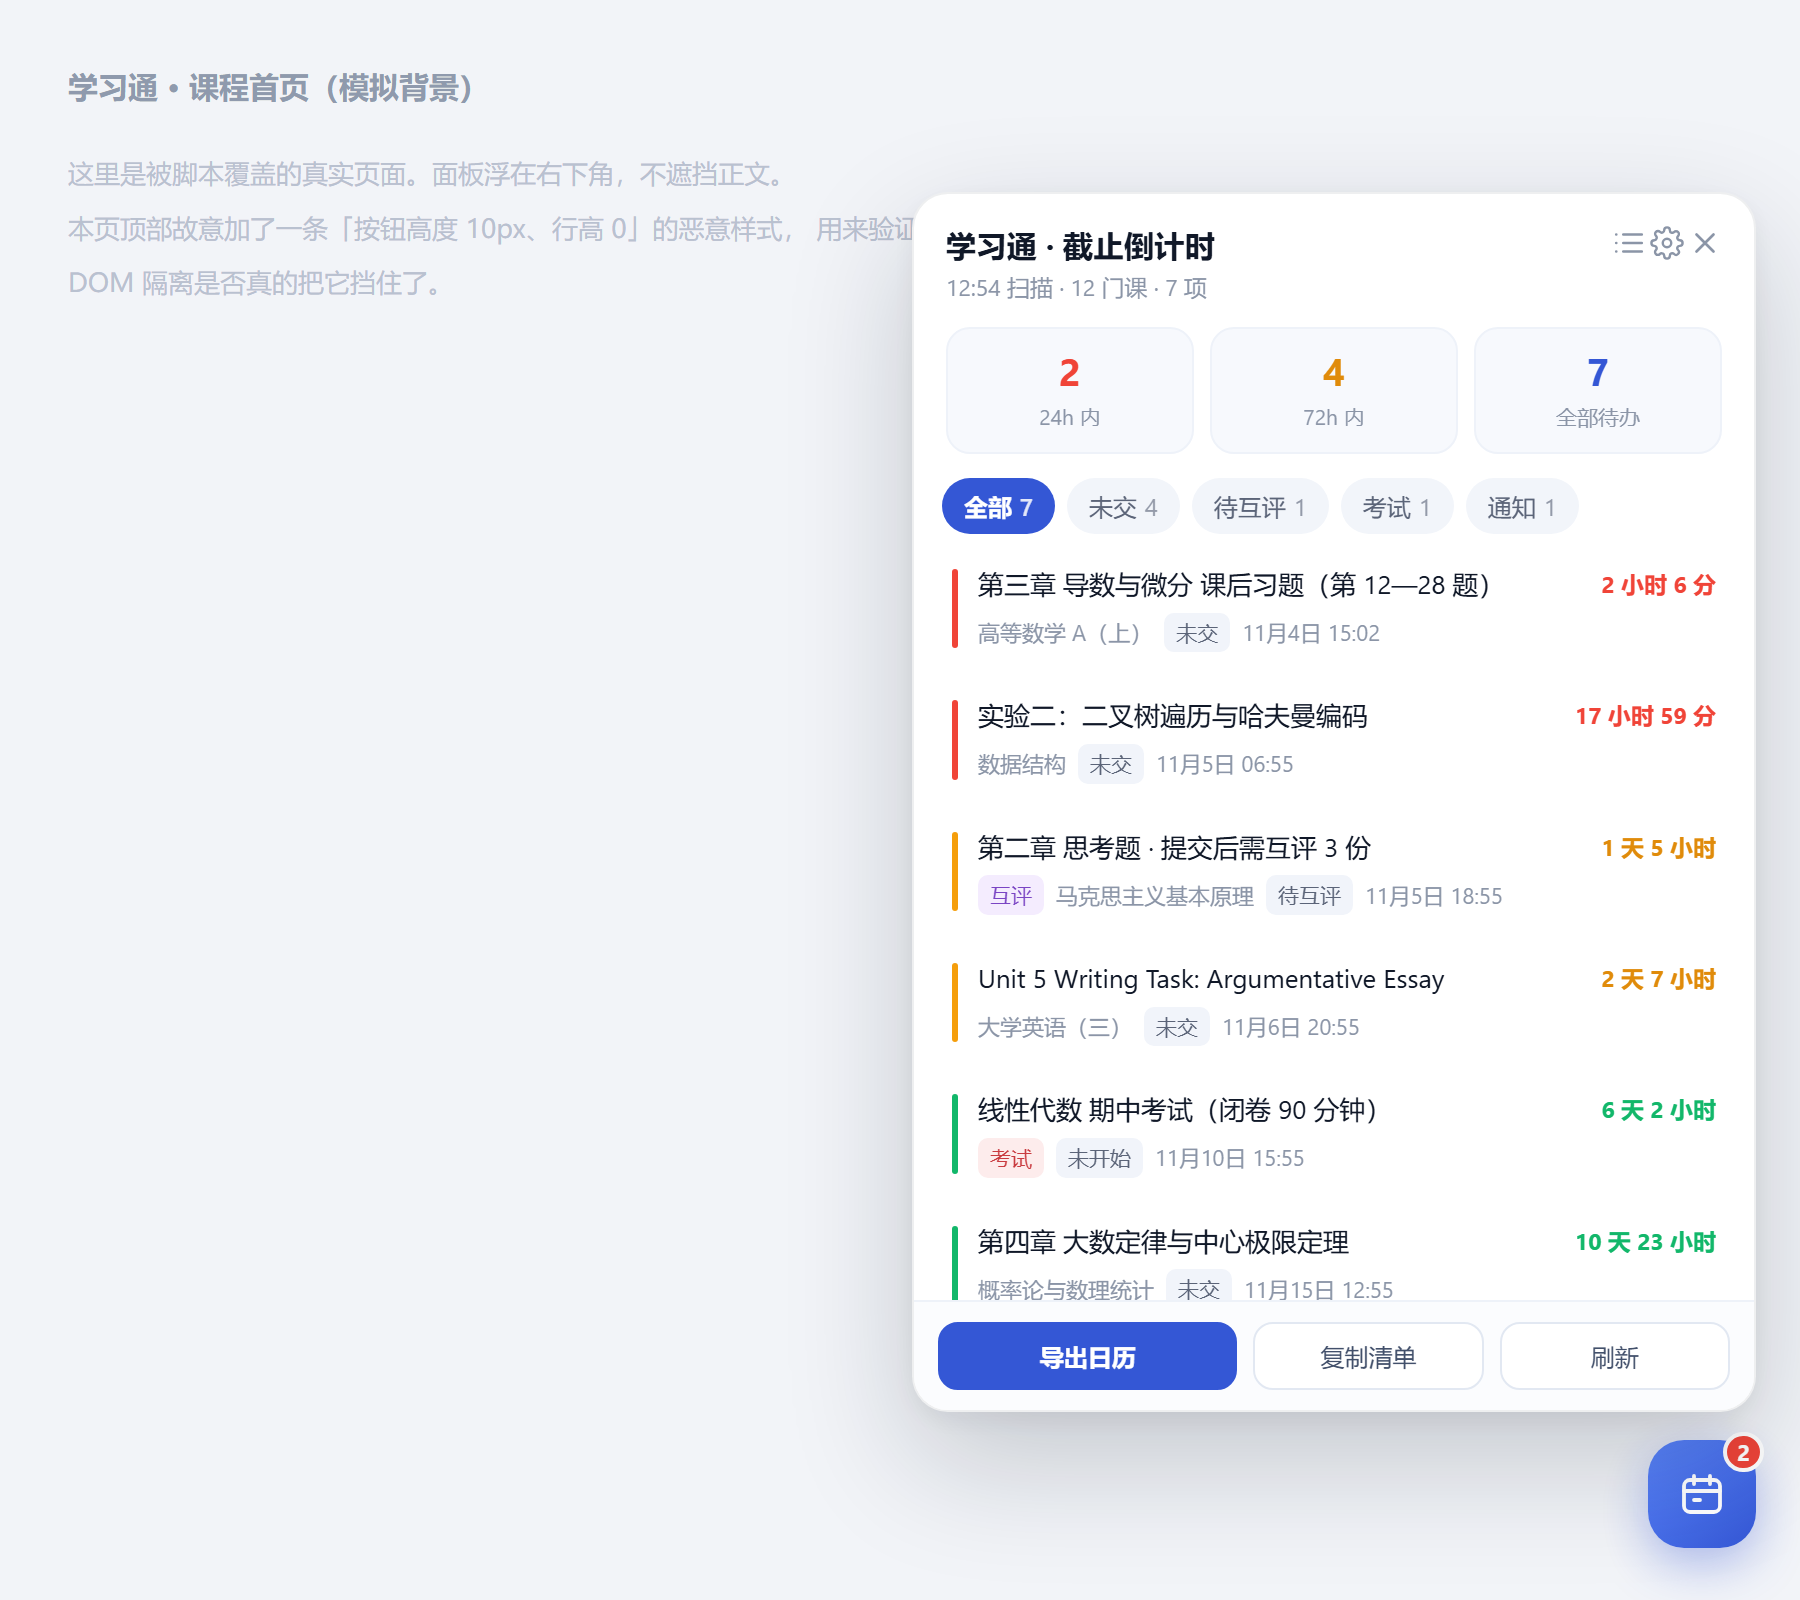
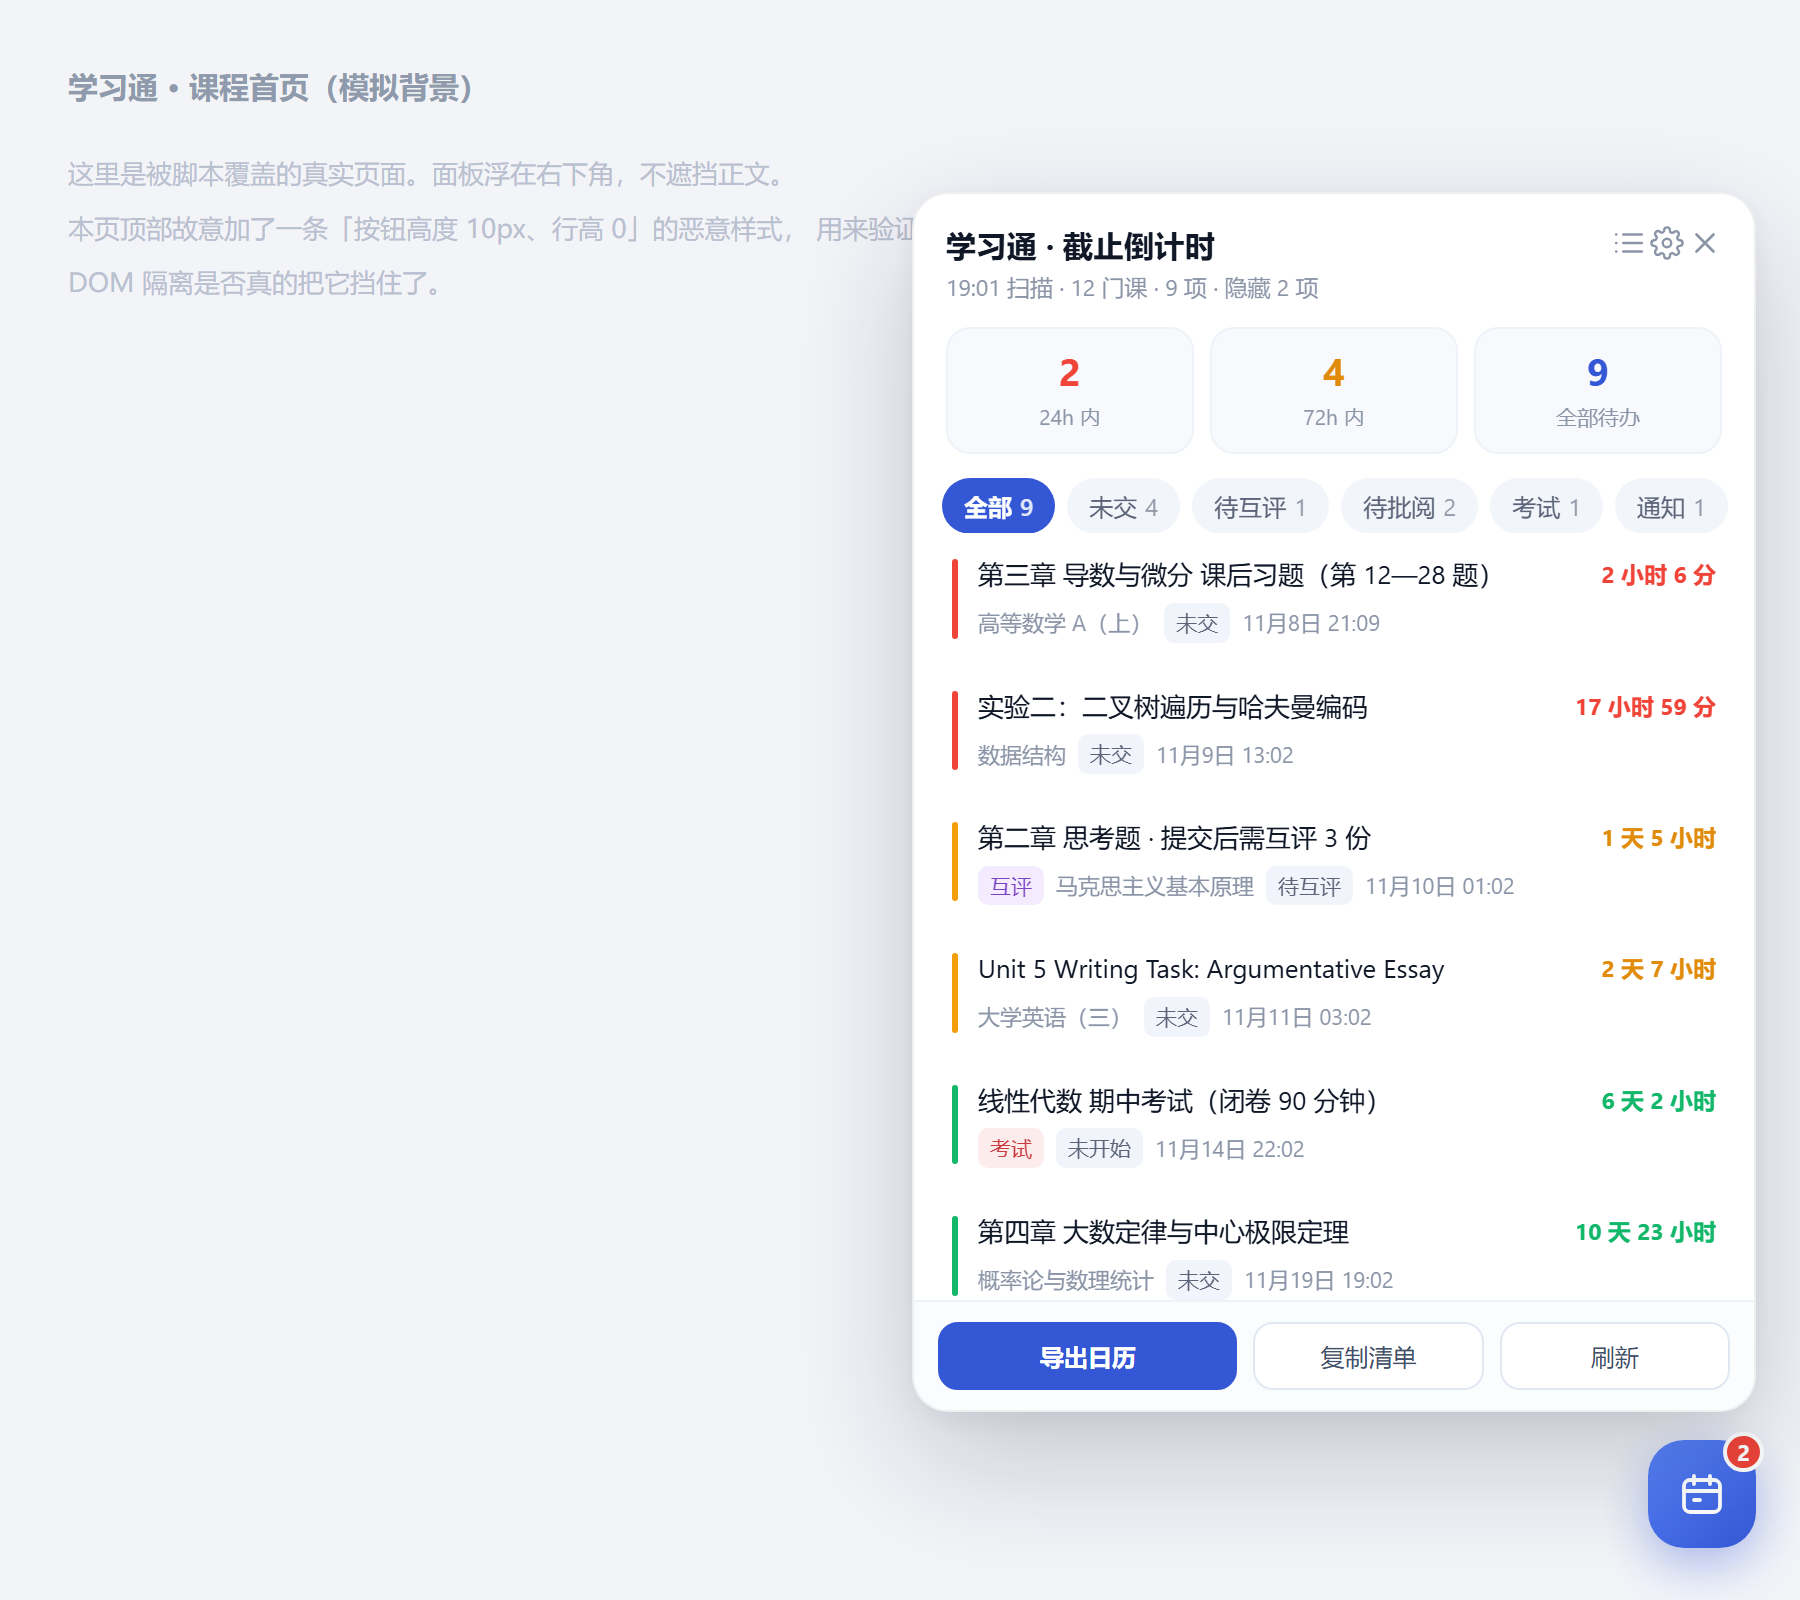
feat: 超过 30 天仍在待批阅的作业自动隐藏 (v1.2.0)
一屏十几条待批阅，大多老师根本不会再批，看着很烦。

- 新增设置「待批阅保留时长」，默认 30 天，可选 不限制 / 14 / 30 / 60 天
- 年龄判据分两种：有截止时间的按截止时间算；没有的按脚本第一次
  扫到它的时间算，所以新交的作业不会误伤，躺满 30 天后自动消失
- 升级后第一次扫描没有历史可查，这些作业按已过期 31 天起算，
  装完立即可见效果
- 顶部副标题显示「隐藏 N 项」，悬停可看具体天数

顺带修正排序：还没截止的排前面，已截止的沉底。待批阅和已过期
作业不该压在真正要交的作业上面。

测试：新增 test/grading.test.mjs，15 项断言覆盖两种时间来源与各档
阈值边界；CI 加入这一步。

diff --git a/chaoxing-deadline.user.js b/chaoxing-deadline.user.js
@@ -2,7 +2,7 @@
 // @name         学习通作业倒计时 · 日历订阅
 // @name:en      Chaoxing Deadline → Calendar
 // @namespace    https://github.com/hjlhjl6667/chaoxing-deadline
-// @version      1.1.0
+// @version      1.2.0
 // @description  一键扫描学习通全部课程的未交作业、待互评、待批阅、考试与未读通知，按剩余时间排序，并可导出 .ics 导入手机系统日历，到期自动提醒。不是又一个网页面板 —— 是让截止时间真正进入你的日程。
 // @description:en Scan all Chaoxing assignments/exams/notices in one click, sort by time left, and export to .ics so deadlines live in your phone's calendar with real alarms.
 // @author       hjlhjl6667
@@ -54,7 +54,11 @@
     scan: 'cxd_scan_v1',
     courses: 'cxd_courses_v1',
     settings: 'cxd_settings_v1',
+    seen: 'cxd_seen_v1',
+    boot: 'cxd_boot_v1',      // 是否已经记录过一轮「首次见到」时间
   };
+
+  const DAY_MS = 864e5;
 
   const DEFAULTS = {
     reminders: [-3 * 24 * 60, -24 * 60, -120],
@@ -65,6 +69,7 @@
     includeExpired: false,
     hideRetired: false,     // 默认扫描全部课程（含已结课），不漏课
     preciseMode: false,      // 走作业详情页取绝对时间（请求量大）
+    gradingMaxAgeDays: 30,   // 待批阅超过这么多天就隐藏，0 = 不限制
   };
 
   /* ==========================================================================
@@ -894,11 +899,33 @@
       }
     }
 
+    // 待批阅作业多半没有截止时间可用，只能靠「第一次扫到它的时间」推算它躺了多久。
+    // 每次扫描都用当前结果重建这张表，旧条目自然被淘汰，不会无限增长。
+    const seenOld = loadSeen();
+    const seenNow = Date.now();
+    const booted = !!GM_getValue(STORE.boot, 0);
+    const seen = {};
+    items.forEach((it) => {
+      if (it.kind === 'homework' && it.category === 'grading') {
+        // 升级后第一次扫描时，这些作业早就躺在那儿了，没有历史可查，
+        // 按「已过期 31 天」起算，让它们立刻隐藏，而不是再等一个月。
+        seen[it.uid] = seenOld[it.uid] || (booted ? seenNow : seenNow - 31 * DAY_MS);
+      }
+    });
+    GM_setValue(STORE.seen, seen);
+    if (!booted) GM_setValue(STORE.boot, seenNow);
+
     items = filterItems(items, settings);
 
-    // 排序：有截止时间的按时间升序，无时间的排最后
+    // 排序分两档：还没截止的排前面（近的在前），已截止的排后面（近的在前）。
+    // 待批阅 / 已过期作业的截止时间都在过去，不该挤在真正要交的作业上面。
+    const sortNow = Date.now();
+    const isFuture = (it) => (it.deadline && it.deadline > sortNow ? 0 : 1);
     items.sort((a, b) => {
-      if (a.deadline && b.deadline) return a.deadline - b.deadline;
+      const tier = isFuture(a) - isFuture(b);
+      if (tier) return tier;
+      if (isFuture(a) === 0) return a.deadline - b.deadline;      // 未截止：越近越前
+      if (a.deadline && b.deadline) return b.deadline - a.deadline; // 已截止：越近越前
       if (a.deadline) return -1;
       if (b.deadline) return 1;
       return String(a.title).localeCompare(String(b.title), 'zh');
@@ -1168,6 +1195,36 @@
     timer: null,
   };
 
+  function loadSeen() {
+    const v = GM_getValue(STORE.seen, null);
+    return v && typeof v === 'object' ? v : {};
+  }
+
+  /* @testable:start grading */
+  /** 这条待批阅作业已经「躺着」多少天：优先用截止时间，其次用首次扫到它的时间 */
+  function gradingAgeDays(it, seen, now) {
+    if (it.deadline) return Math.max(0, (now - it.deadline) / DAY_MS);
+    const first = seen[it.uid];
+    if (first) return Math.max(0, (now - first) / DAY_MS);
+    return 0;
+  }
+
+  /** 过滤超过 limit 天仍未批阅的作业。limit 为 0 表示不限制 */
+  function pickVisible(items, limit, seen, now) {
+    const days = Number(limit) || 0;
+    if (!days) return items;
+    return items.filter((it) => {
+      if (it.kind !== 'homework' || it.category !== 'grading') return true;
+      return gradingAgeDays(it, seen, now) <= days;
+    });
+  }
+  /* @testable:end grading */
+
+  /** 列表、标签计数、顶部统计统一走这里，设置一改立刻生效，不用重新扫 */
+  function visibleItems() {
+    return pickVisible(state.items, loadSettings().gradingMaxAgeDays, loadSeen(), Date.now());
+  }
+
   function loadSettings() {
     const s = GM_getValue(STORE.settings, null);
     return Object.assign({}, DEFAULTS, s || {});
@@ -1302,7 +1359,8 @@
 
   function renderStats() {
     const now = Date.now();
-    const pend = state.items.filter((i) => !i.expired);
+    const vis = visibleItems();
+    const pend = vis.filter((i) => !i.expired);
     const urgent = pend.filter((i) => i.deadline && i.deadline - now <= CFG.URGENT && i.deadline > now);
     const week = pend.filter((i) => i.deadline && i.deadline - now <= CFG.SOON && i.deadline > now);
     $('#cxd-s-urgent').textContent = urgent.length;
@@ -1324,9 +1382,14 @@
         : '正在获取课程列表…';
     } else if (state.scannedAt) {
       const t = new Date(state.scannedAt);
+      const hidden = state.items.length - vis.length;
       sub.textContent =
         `${pad2(t.getHours())}:${pad2(t.getMinutes())} 扫描 · ` +
-        `${state.courseCount} 门课 · ${state.items.length} 项`;
+        `${state.courseCount} 门课 · ${vis.length} 项` +
+        (hidden ? ` · 隐藏 ${hidden} 项` : '');
+      sub.title = hidden
+        ? `另有 ${hidden} 项待批阅超过 ${loadSettings().gradingMaxAgeDays} 天，已隐藏（设置里可调）`
+        : '';
     } else sub.textContent = '点击「刷新」开始扫描';
   }
 
@@ -1353,8 +1416,9 @@
   function renderTabs() {
     const box = $('#cxd-tabs');
     box.innerHTML = '';
+    const vis = visibleItems();
     for (const t of TABS) {
-      const n = state.items.filter((i) => matchTab(i, t.k)).length;
+      const n = vis.filter((i) => matchTab(i, t.k)).length;
       if (!n && t.k !== 'all') continue;
       const b = document.createElement('button');
       b.className = 'cxd-tab' + (state.filter === t.k ? ' on' : '');
@@ -1422,14 +1486,15 @@
       </div>`;
       return;
     }
-    if (!state.items.length) {
+    const vis = visibleItems();
+    if (!vis.length) {
       box.innerHTML = `<div class="cxd-empty">${
         state.scannedAt ? '没有符合条件的待办 🎉' : '还没有扫描过<br>点击下方「刷新」开始'
       }</div>`;
       return;
     }
 
-    const shown = state.items.filter((i) => matchTab(i, state.filter));
+    const shown = vis.filter((i) => matchTab(i, state.filter));
     box.innerHTML = '';
 
     if (state.warnings.length) {
@@ -1530,6 +1595,22 @@
         ${switchRow('withExams', '包含考试', '考试列表也一并导出', s.withExams)}
         ${switchRow('includePeerReview', '包含待互评', '别人作业等你评的，也有截止时间', s.includePeerReview)}
         ${switchRow('includeGrading', '包含待批阅', '已提交但老师还没批的', s.includeGrading)}
+        <div class="cxd-row" style="border-bottom:0;padding-bottom:0">
+          <div><label>待批阅保留时长</label><span class="hint">躺了这么久还没批的，自动从列表隐藏</span></div>
+        </div>
+        <div class="cxd-rem" id="cxd-grade-age">
+          ${[
+            [0, '不限制'],
+            [14, '14 天'],
+            [30, '30 天'],
+            [60, '60 天'],
+          ]
+            .map(
+              ([v, t]) =>
+                `<button data-v="${v}" class="${Number(s.gradingMaxAgeDays) === v ? 'on' : ''}">${t}</button>`
+            )
+            .join('')}
+        </div>
         ${switchRow('withNotices', '包含未读通知', '实验性：接口可能随平台调整而失效', s.withNotices)}
         ${switchRow('includeExpired', '包含已过期', '默认隐藏，避免干扰', s.includeExpired)}
         ${switchRow('hideRetired', '跳过已结课', '默认关闭：结课课程里也可能有没交的作业', s.hideRetired)}
@@ -1546,6 +1627,18 @@
         cur.reminders.sort((a, b2) => b2 - a);
         saveSettings(cur);
         b.classList.toggle('on');
+      });
+    });
+
+    box.querySelectorAll('#cxd-grade-age button').forEach((b) => {
+      b.addEventListener('click', () => {
+        const cur = loadSettings();
+        cur.gradingMaxAgeDays = parseInt(b.dataset.v, 10) || 0;
+        saveSettings(cur);
+        box
+          .querySelectorAll('#cxd-grade-age button')
+          .forEach((x) => x.classList.toggle('on', x === b));
+        renderStats();
       });
     });
 

diff --git a/tools/preview.html b/tools/preview.html
@@ -62,8 +62,24 @@
       mk({ uid: 'a7', kind: 'notice', courseName: '数据结构 · 李老师',
         title: '关于实验课调至周四下午的通知', status: '未读',
         category: 'notice', deadline: null }),
+      // 待批阅：前两条应保留，后两条应被「30 天」规则隐藏
+      mk({ uid: 'g1', kind: 'homework', courseName: '大学英语（三）',
+        title: 'Unit 4 Summary Writing', status: '待批阅',
+        category: 'grading', deadline: now - 4 * D }),
+      mk({ uid: 'g4', kind: 'homework', courseName: '线性代数',
+        title: '第二次平时作业', status: '待批阅',
+        category: 'grading', deadline: null }),
+      mk({ uid: 'g2', kind: 'homework', courseName: '高等数学 A（上）',
+        title: '第二章 极限与连续 课后习题', status: '待批阅',
+        category: 'grading', deadline: now - 46 * D }),
+      mk({ uid: 'g3', kind: 'homework', courseName: '马克思主义基本原理',
+        title: '第一章 思考题', status: '待批阅',
+        category: 'grading', deadline: null }),
     ],
   };
+
+  // g3 没有截止时间，靠「首次扫到的时间」判断：68 天前就已经躺在那儿了
+  store['cxd_seen_v1'] = { g1: now - 4 * D, g2: now - 46 * D, g3: now - 68 * D, g4: now - 3 * D };
 
   window.GM_addStyle = function (css) {
     const s = document.createElement('style');
@@ -96,6 +112,12 @@
     if (location.search.indexOf('diag') >= 0) {
       var btn = root.querySelector('#cxd-diag-btn');
       if (btn) btn.click();
+    }
+    if (location.search.indexOf('grading') >= 0) {
+      var tabs = root.querySelectorAll('.cxd-tab');
+      for (var i = 0; i < tabs.length; i++) {
+        if (tabs[i].textContent.indexOf('待批阅') === 0) { tabs[i].click(); break; }
+      }
     }
     if (location.search.indexOf('settings') >= 0) {
       var sb = root.querySelector('#cxd-set-btn');
